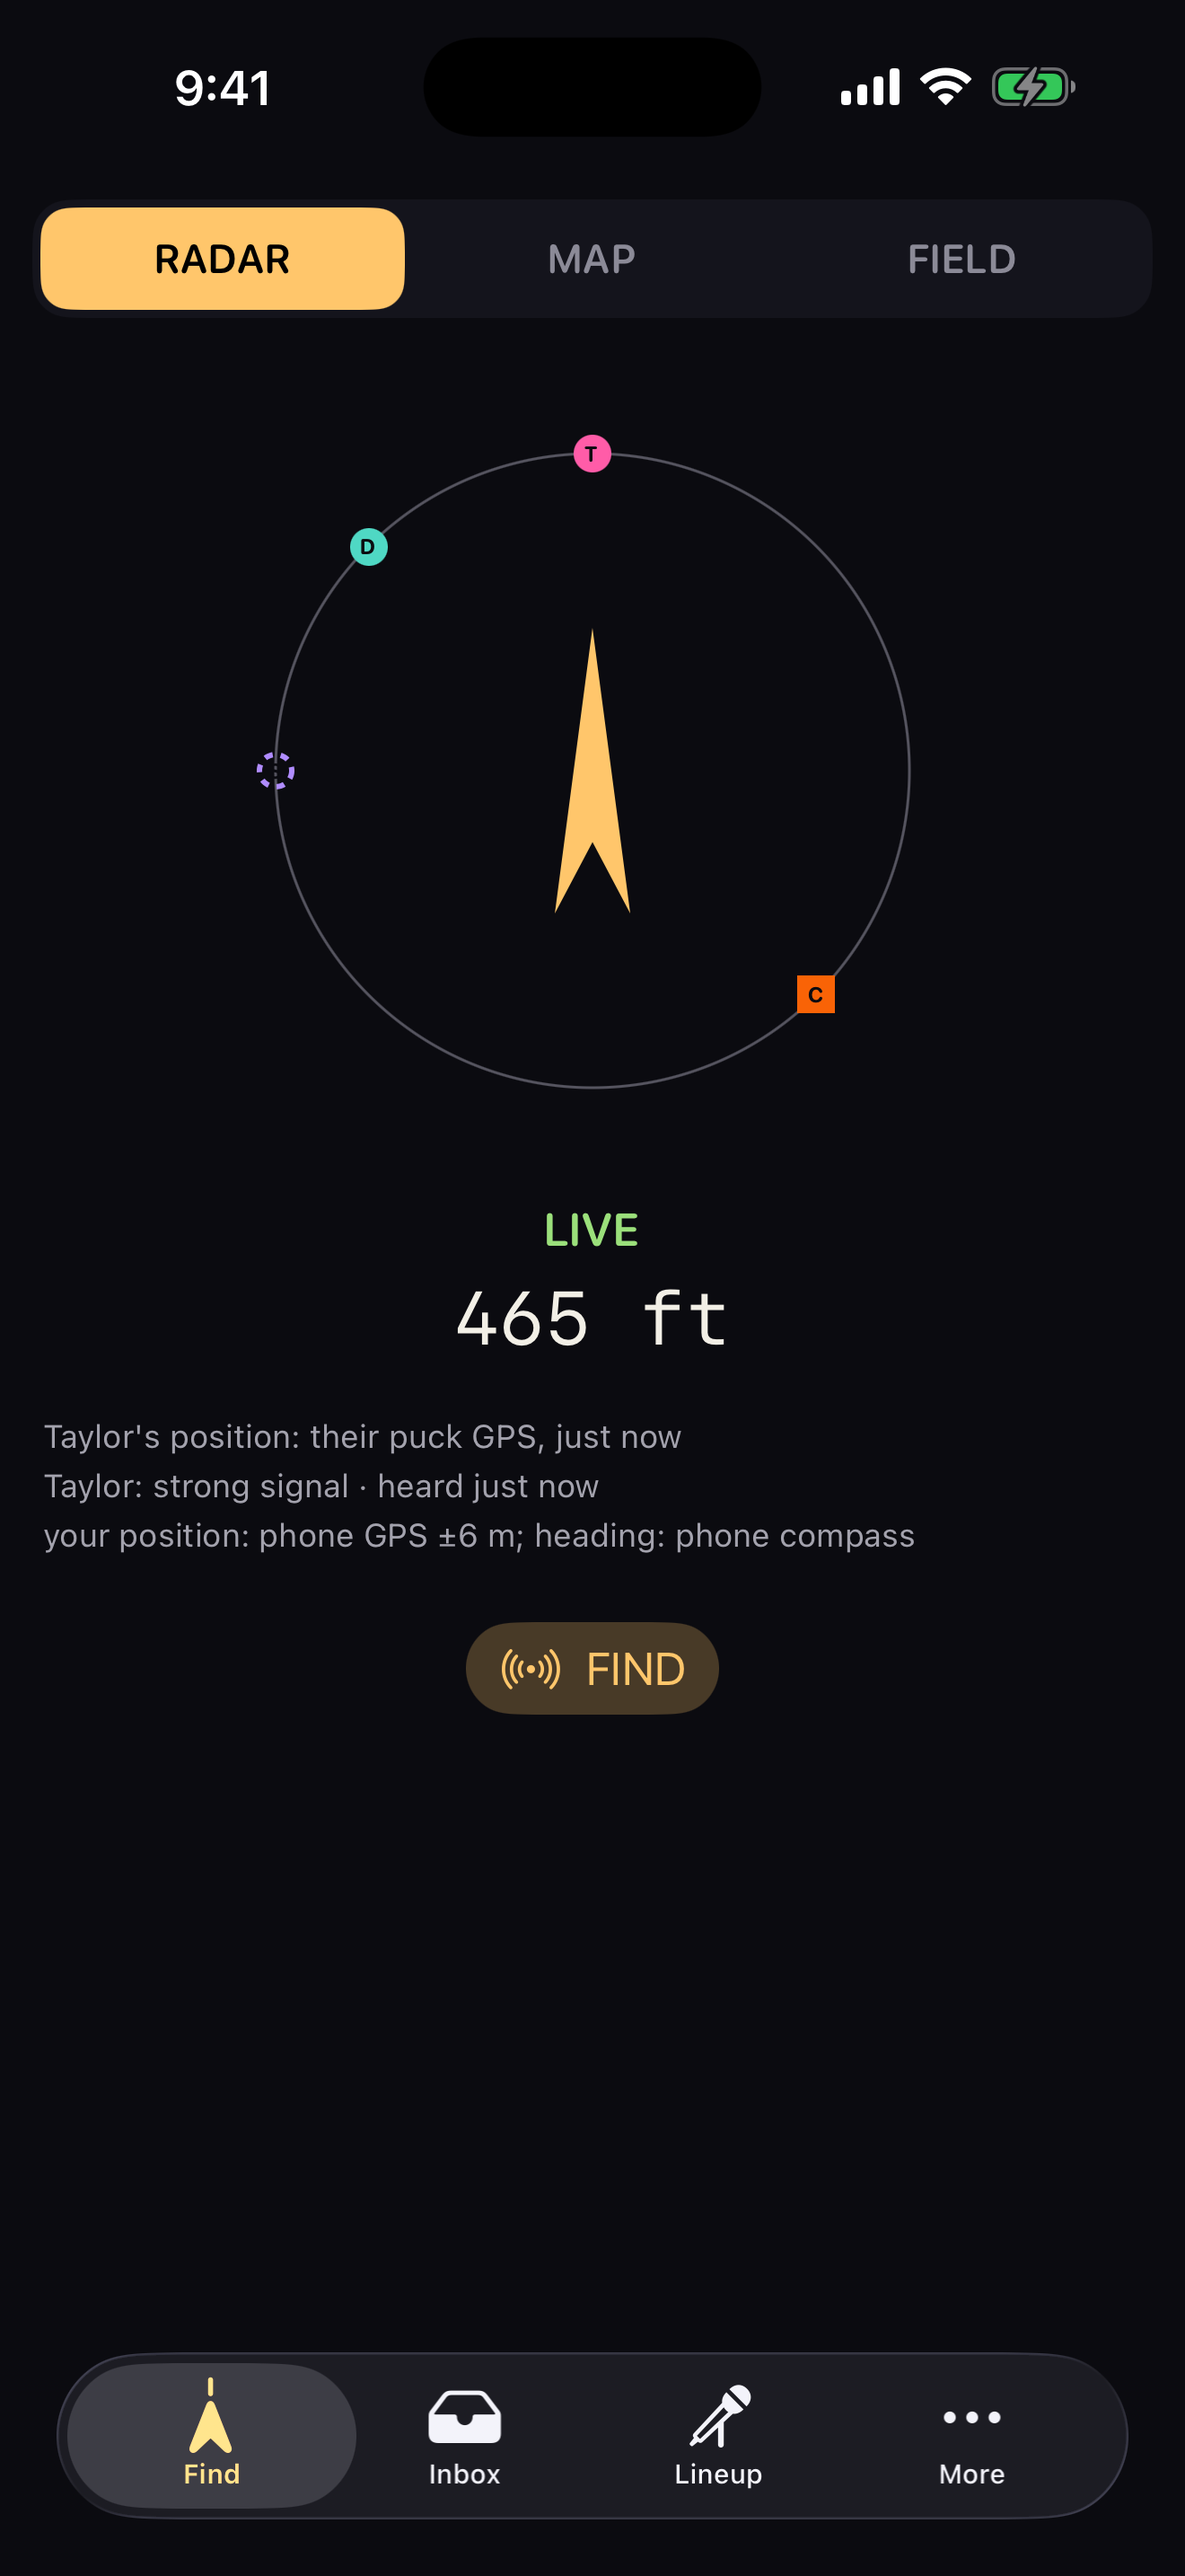
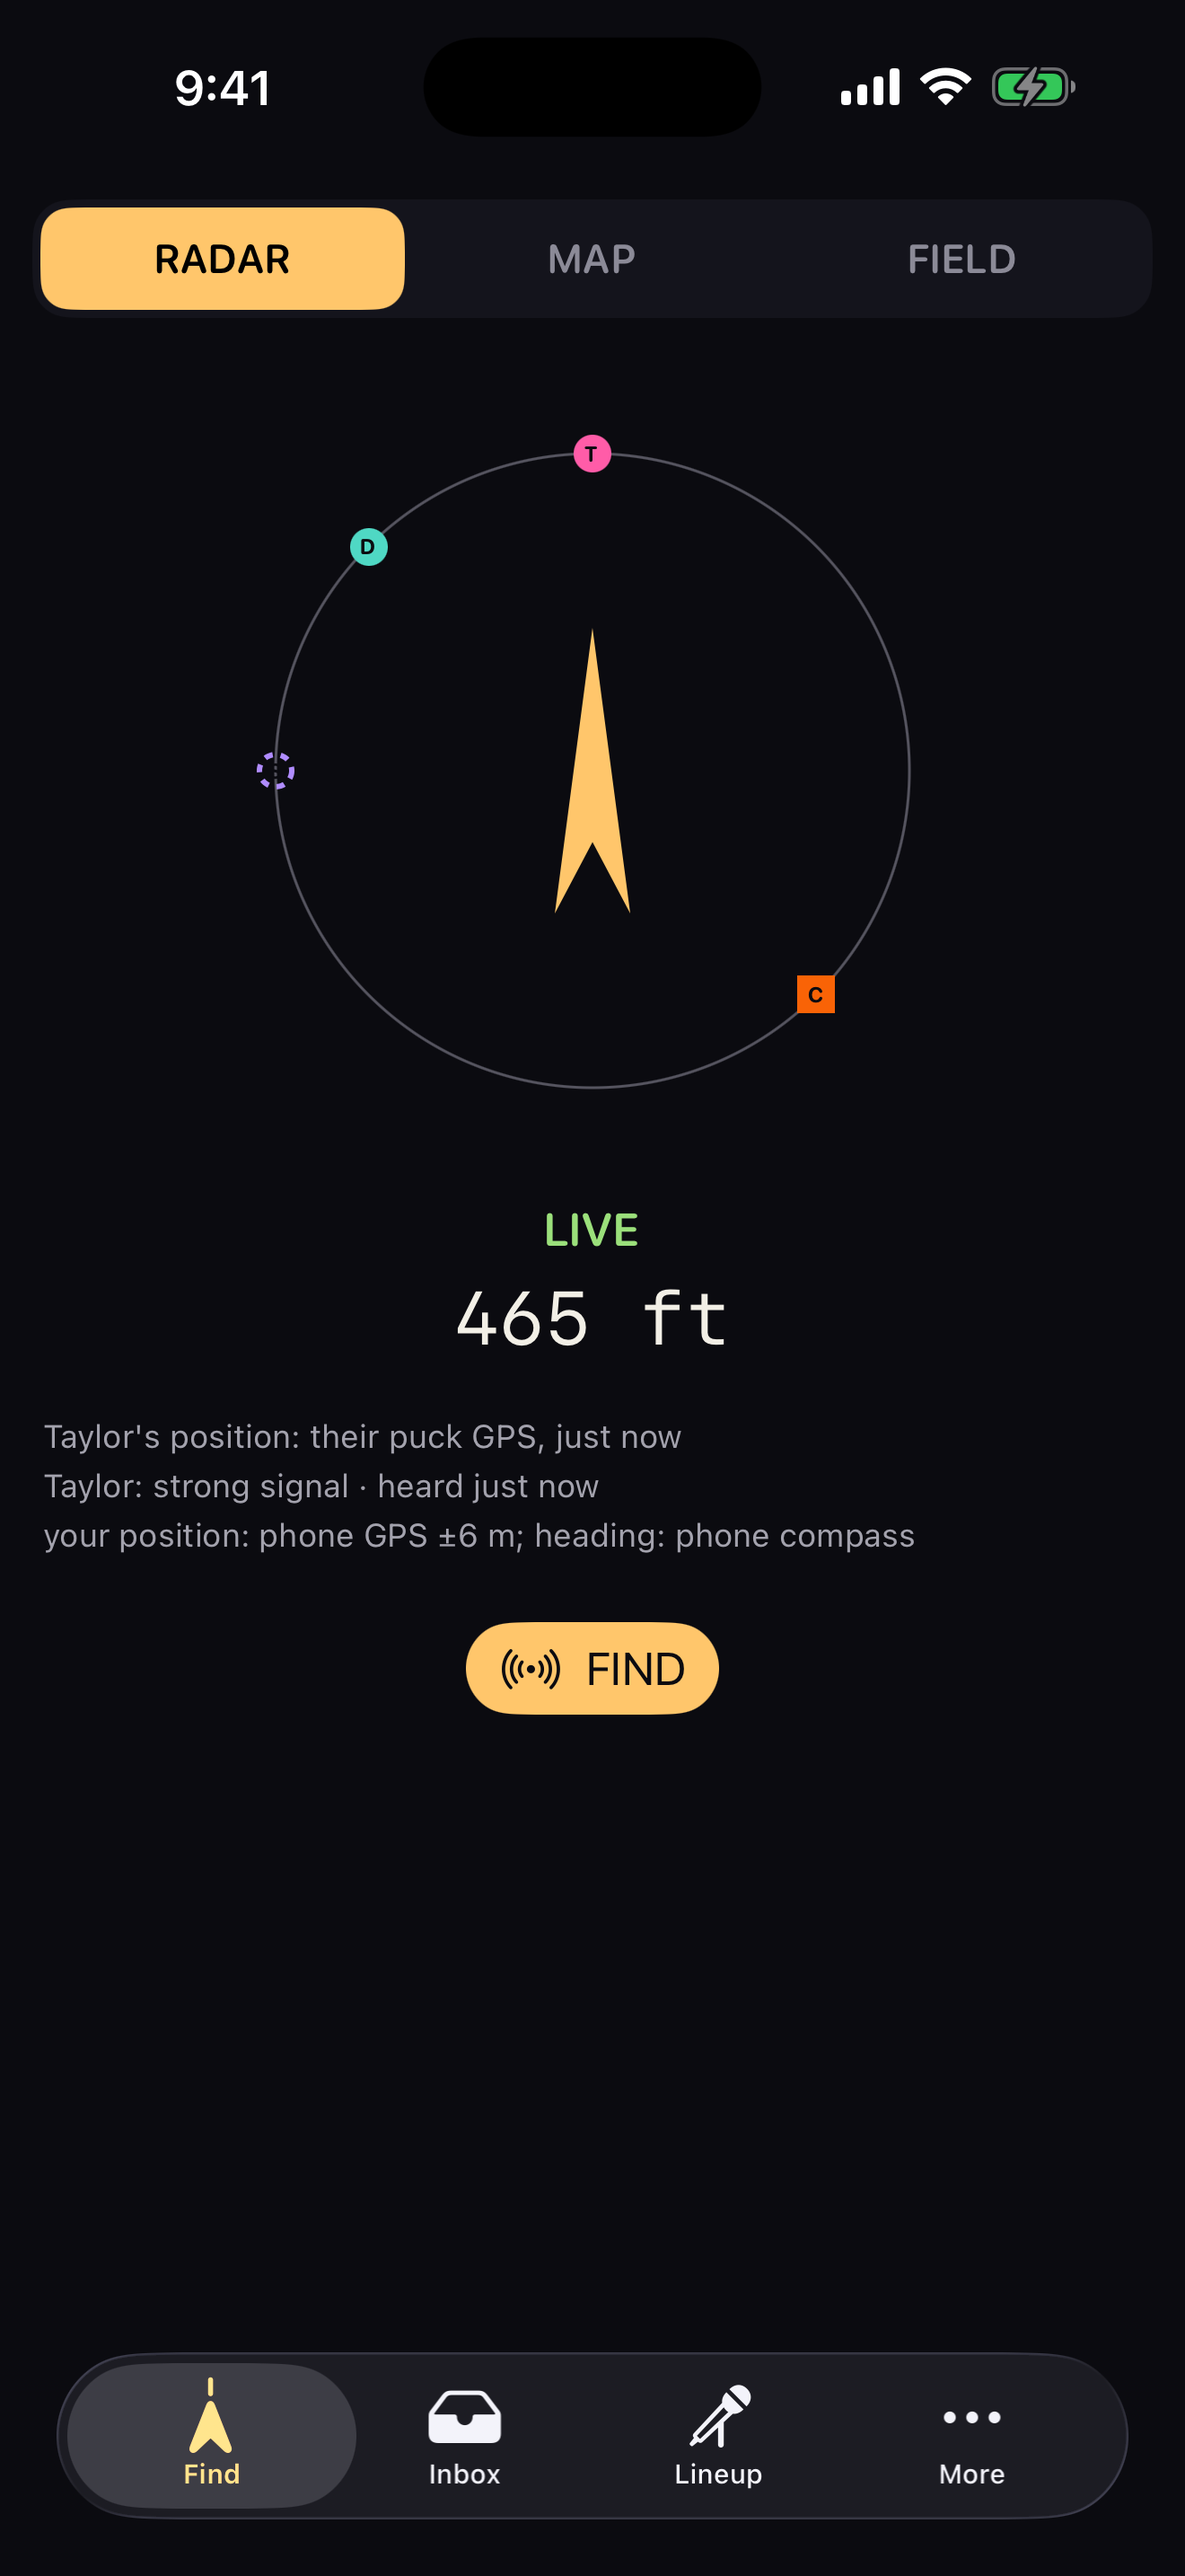
app: FIND is a filled primary on Radar (bordered stays for secondary actions) (#336)
Owner decision (Jake, 2026-09-15, "Fill it like CONNECT"): the FIND pill
on the Radar (Find tab) screen used the translucent bordered amber style
(.buttonStyle(.bordered).tint(.ffAmber)), the same as RESCAN, and read
dim next to filled-amber primaries like CONNECT elsewhere in the app.

Changed RadarView.swift's `findAffordance` to the app's standard filled-
primary trio — .buttonStyle(.borderedProminent), .tint(.ffAmber),
.foregroundStyle(Color.ffBackground) — the same modifiers ConnectScreen's
primaryButton (CONNECT), CrewJoinView's JOIN, and ConnectScreen's IMPORT
already use, reused rather than reinvented. Idle and running states both
get the filled treatment; disabled semantics (no target selected and not
running) are unchanged.

Checked the rest of the Radar screen for the same primary/secondary
inconsistency: FindPanel's START FIND and FlareTakeoverView's DISMISS
were already borderedProminent (correct, filled primary); FindPanel's
STOP and CrewConnectPuckView/ConnectScreen's RESCAN were already
.bordered (correct, secondary). No other change needed.

Regenerated marketing/screenshots/6.9in/01_radar.png via
app/tools/store_media.sh (SKIP_VIDEO=1 CLEANUP=1) — the only screenshot
this change touches; the other 6 shots it also produces were reverted
since they only changed from unrelated non-determinism (timestamps, map
tiles, QR randomization).

Changed region(s): [[0.3727, 0.6206, 0.6212, 0.6827]]

diff --git a/app/Firefly/Sources/Radar/RadarView.swift b/app/Firefly/Sources/Radar/RadarView.swift
@@ -151,8 +151,16 @@ struct RadarView: View {
             Label(model.isFindActive ? "FIND — \(model.findPingCount) sent" : "FIND",
                   systemImage: "dot.radiowaves.left.and.right")
         }
-        .buttonStyle(.bordered)
+        // Owner decision, 2026-09-15 ("Fill it like CONNECT"): FIND is a
+        // primary action on this screen, not a secondary one like RESCAN
+        // — it read dim next to filled-amber primaries elsewhere in the
+        // app. Same filled-primary modifier trio as CONNECT/JOIN/IMPORT
+        // (ConnectScreen.swift's `primaryButton`, CrewJoinView's JOIN),
+        // reused rather than reinvented. Bordered stays for secondary
+        // actions (RESCAN, STOP in FindPanel).
+        .buttonStyle(.borderedProminent)
         .tint(.ffAmber)
+        .foregroundStyle(Color.ffBackground)
         .frame(minWidth: 44, minHeight: 44)
         .contentShape(Rectangle())
         .disabled(model.findTargetNodeID == nil && !model.isFindActive)
